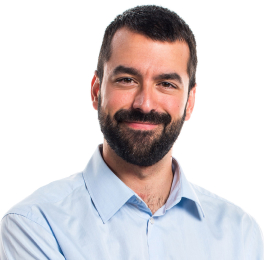
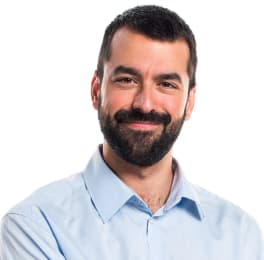
update images

diff --git a/index.html b/index.html
@@ -81,7 +81,7 @@
                     <p>Frontend Developer</p>
                 </li>
                 <li>
-                    <img src="./images/team3.png" alt="" width="264" height="260">
+                    <img src="./images/team3.jpg" alt="" width="264" height="260">
                     <h3>Camila Garcia</h3>
                     <p>Marketing</p>
                 </li>
